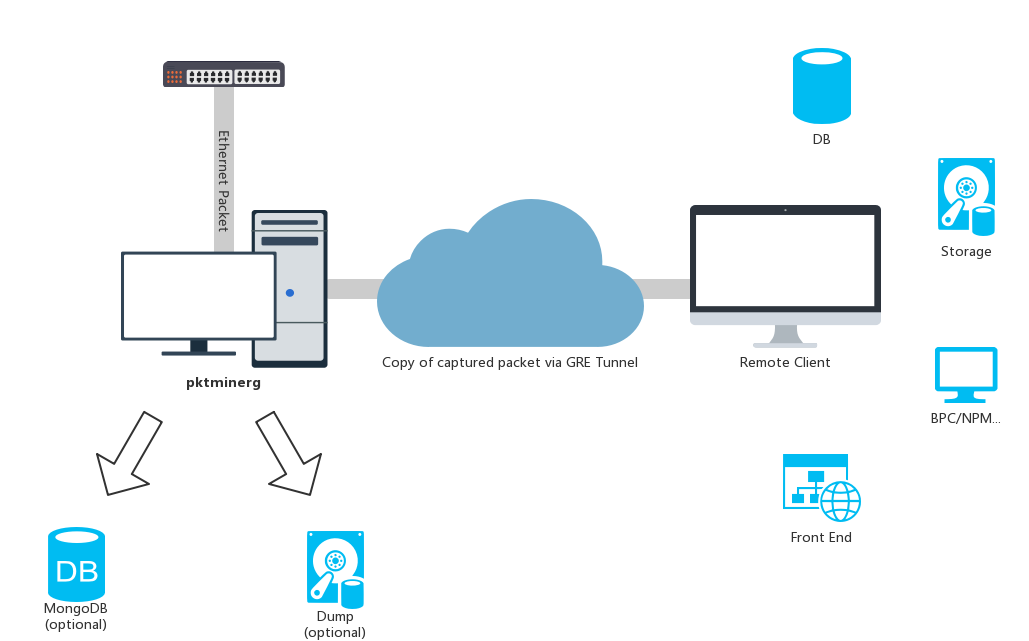
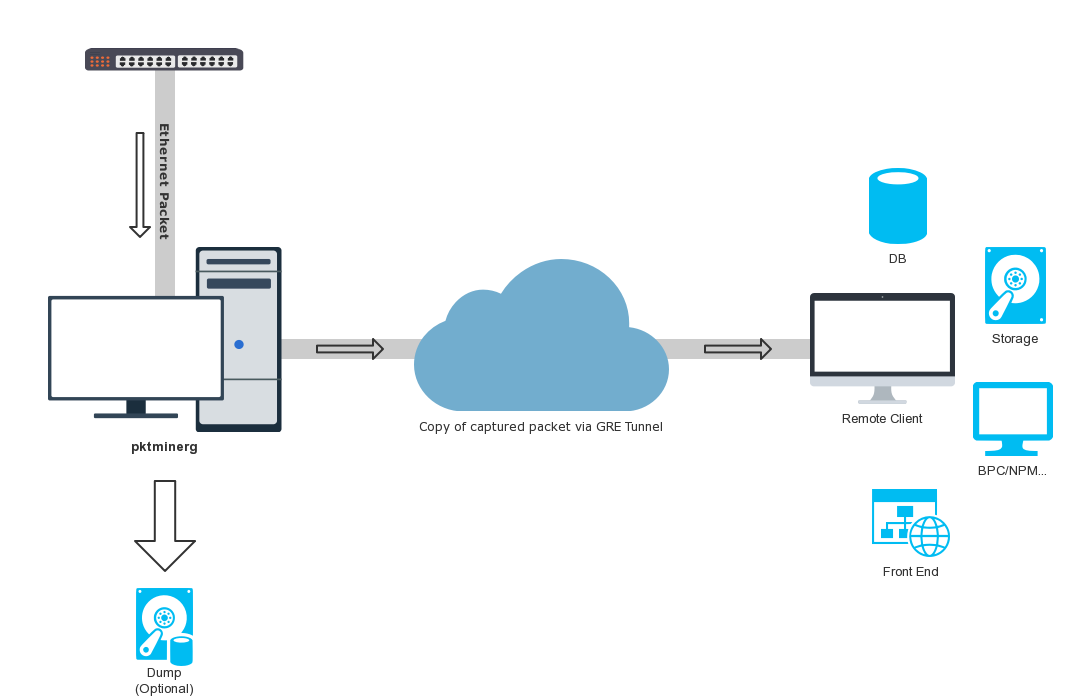
Add illustrations for packet_agent
Add illustrations for packet_agent

diff --git a/README.md b/README.md
@@ -15,7 +15,9 @@ Netis Packet Agent is an open source project to deal with such situation: it cap
 Also, this project aims at developing a suite of low cost but high efficiency tools to survive the challenge above.
 - **pktminerg** is the very first one, which makes you easily capture packets from an NIC interface, encapsulate them with GRE and send them to a remote machine for monitoring and analysis.
 
-With 3 tools:
+![chart](./img/pktminerg.png)
+
+With 3 utilities:
 - **pcapcompare** is a utility for comparing 2 different pcap files.
 - **gredump** is used for capturing GRE packet with filter, and save them to pcap file.
 - **gredemo** is a demo app which is used to read packet from a pcap file and send them all to remote NIC. This can be only used when built from source code.
@@ -51,6 +53,8 @@ pcapcompare --lpcap /path/to/left_file.pcap --rpcap /path/to/right_file.pcap
 # Capture packet from NIC "eth0" and save them to gredump_output.pcap
 gredump -i eth0 -o /path/to/gredump_output.pcap
 ```
+![pktminer_use_case](./img/use_case.png)
+
 For more information on using these tools, please refer to this [document](./USAGE.md).
 
 ### Build from source.

diff --git a/README-zh-Hans.md b/README-zh-Hans.md
@@ -54,6 +54,7 @@ pcapcompare --lpcap /path/to/left_file.pcap --rpcap /path/to/right_file.pcap
 # Capture packet from NIC "eth0" and save them to gredump_output.pcap
 gredump -i eth0 -o /path/to/gredump_output.pcap
 ```
+![pktminer_use_case](./img/use_case.png)
 
 完整的使用说明，请参阅[这篇文档](./USAGE.md)（仅英文版）.
 
